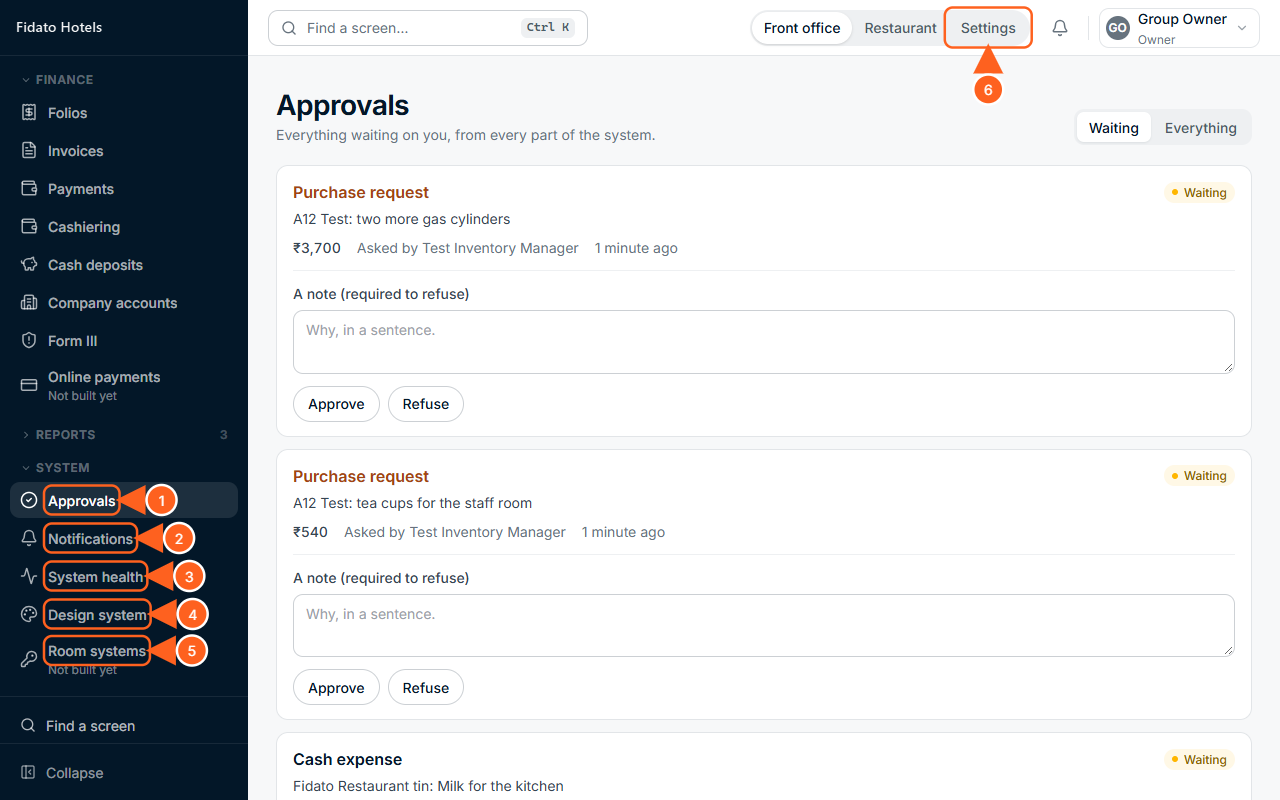
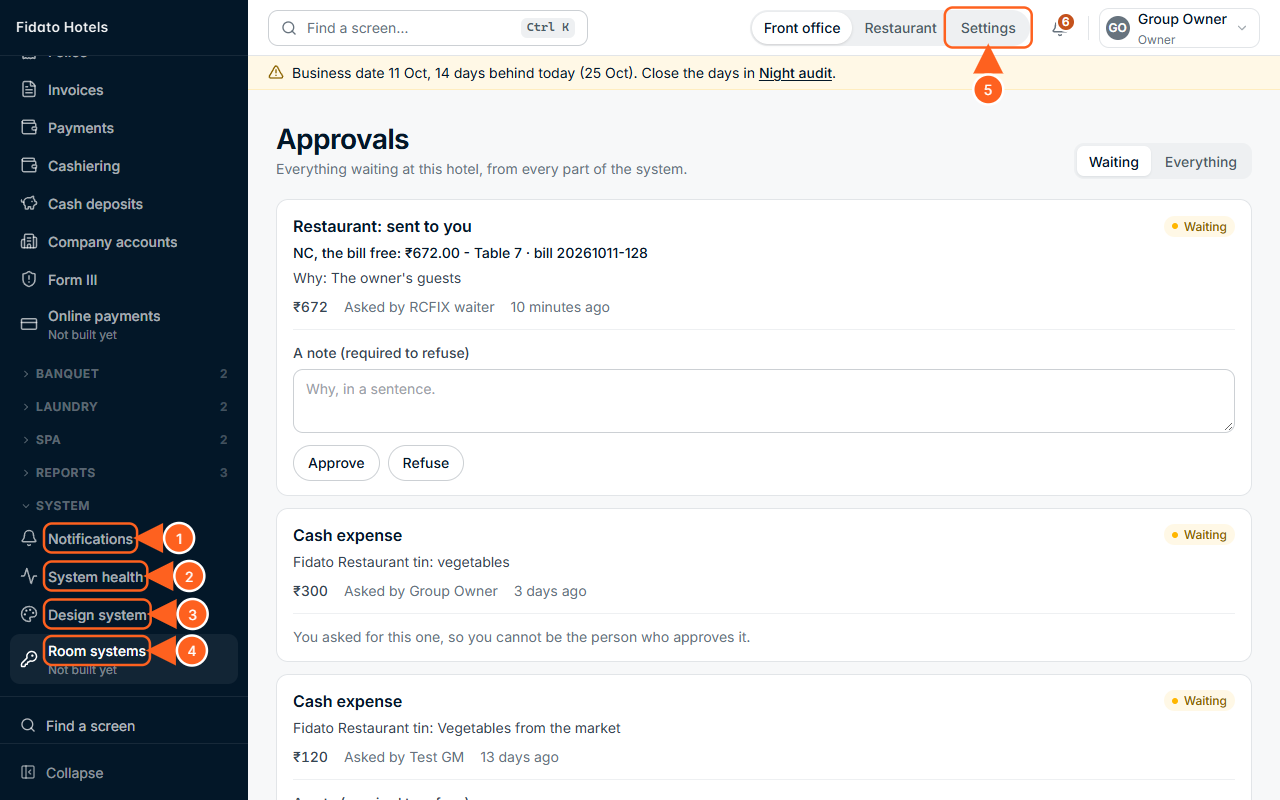
Manual for release 12.1: requests sent to the GM, a paid bill's payment mode, the printing card, Approvals at the top (D27-363)
A1.10: Approvals above the Front desk section, after the Dashboard. A8.7:
"Sent to the GM" (a waiter's strike, discount, NC or void, approving does it,
the answer on the bill), "Changing how a paid bill was paid" (Figure A8-42),
the void and NC buttons for everyone else, watch-outs, D27-363. A8.10:
"Printing on this computer: the shortest slip, and a test" (Figure A8-41).
A12: Approvals at the top with the bell's count, the restaurant's requests in
the table and on the screen (Figure A12-16), A12-01 retaken with the System
section unfolded (Approvals left it). Built. Pictures checked one by one.

diff --git a/docs/manual/manual.html b/docs/manual/manual.html
@@ -236,7 +236,7 @@ figure.shot.phone img { max-width: 72mm; }
   <div class="foot">
     The screens in this book are from the test hotel, 5 Elements Akkalkot. Every guest in it is made up.<br>
     Decision numbers such as D27-249 are the owner's decisions; the list is kept in <code style="background:none;color:inherit">docs/briefs/decisions-*.md</code>.<br>
-    352 pictures, 44 still to be taken. Built from the chapters in docs/manual/chapters.
+    355 pictures, 44 still to be taken. Built from the chapters in docs/manual/chapters.
   </div>
 </section>
 
@@ -1312,6 +1312,7 @@ figure.shot.phone img { max-width: 72mm; }
 
   <!-- A1.10 -->
   <h2 id="a1-10"><span class="n">A1.10</span>The Front desk part of the menu</h2>
+  <p>Above it, after the <span class="ui">Dashboard</span>, the owner, an Admin, the GM, the hotel manager and the Inventory Manager see <span class="ui">Approvals</span>: everything waiting for their yes, from every part of the system, with the bell counting it (A12.3).</p>
   <p>The <span class="ui">Front desk</span> section of the menu holds nine screens. Where each one is described:</p>
   <table>
     <thead><tr><th style="width:22%">Screen</th><th>What it is</th><th style="width:14%">Section</th></tr></thead>
@@ -5107,7 +5108,7 @@ figure.shot.phone img { max-width: 72mm; }
   </div>
 
   <h3>Voiding a paid bill</h3>
-  <p>A bill paid by mistake (the wrong table, paid twice) can be voided by the owner, an Admin or the GM, on the day it was paid and before <span class="ui">Close restaurant day</span>. Nobody else sees the button.</p>
+  <p>A bill paid by mistake (the wrong table, paid twice) can be voided by the owner, an Admin or the GM, on the day it was paid and before <span class="ui">Close restaurant day</span>. Anyone else sees <span class="ui">Ask the GM to void this bill</span> and sends it (below).</p>
   <ol class="steps">
     <li>On the Till, tap the bill under <span class="ui">Settled today</span>.</li>
     <li>Tap <span class="ui">Void this paid bill</span> and type why.</li>
@@ -5117,7 +5118,7 @@ figure.shot.phone img { max-width: 72mm; }
   <p>The bill keeps its number and reads <b>VOID</b>, with the reason, who and when; <span class="ui">Print the bill</span> prints it headed <b>Bill · VOID</b>. The kitchen's KOTs stay as they were: the food was made. The day's sales, the reports and the Day book leave a voided bill out, and its alcohol's VAT bill is cancelled with it. <span class="ui">Close restaurant day</span> and the night audit list it under <span class="ui">Paid bills voided</span>. Its cash comes out of the restaurant's tin, so the tin's Expected leaves it out (A8.9); nobody's front-desk drawer is touched.</p>
 
   <h3>Giving a bill free: No charge (NC)</h3>
-  <p>A bill the hotel gives free - the owner's guests, a staff meal - is closed as NC by the owner, an Admin or the GM. Their name on it is the approval. Nobody else sees the button.</p>
+  <p>A bill the hotel gives free - the owner's guests, a staff meal - is closed as NC by the owner, an Admin or the GM. Their name on it is the approval. Anyone else sees <span class="ui">Ask the GM for NC</span> and sends it (below).</p>
   <ol class="steps">
     <li>On the Till (or the Terminal), open the bill. It must still be open.</li>
     <li>Tap <span class="ui">No charge (NC)</span> and type why.</li>
@@ -5144,6 +5145,31 @@ figure.shot.phone img { max-width: 72mm; }
     <ol class="callouts"><li>NC · No charge at its head</li><li>Who approved it, and when</li></ol>
   </figure>
 
+  <h3>Sent to the GM: what a waiter or cashier may not do</h3>
+  <p>Four things are the owner's, an Admin's or the GM's: taking off a dish the kitchen already has, a discount, giving a bill free (NC), and voiding a paid bill. A waiter or a cashier does not wait for the GM to come to their screen: they <b>send it to the GM</b>, with a reason, and carry on.</p>
+  <ol class="steps">
+    <li>On the Till (or the Terminal), tap what you need: the dish's <span class="ui">X</span>, <span class="ui">Ask for a discount</span>, <span class="ui">Ask the GM for NC</span>, or, on a paid bill, <span class="ui">Ask the GM to void this bill</span>.</li>
+    <li>Type why. A discount: the percentage or amount, and why. A void paid by card or UPI: refund it on the card machine or the UPI app first, and type the refund's reference.</li>
+    <li>Tap <span class="ui">Send to the GM</span>. The bill says <span class="msg">“Sent to the GM, waiting: Strike 2 x Paneer Tikka (KOT 51) - Table 4 · bill …”</span>.</li>
+  </ol>
+  <p>The GM's bell counts it and <span class="ui">Approvals</span>, at the top of their menu, shows it (A12.3). When they <span class="ui">Approve</span>, it is done at once, as if they had pressed the button themselves: the dish comes off, the discount goes on, the bill is NC or void. The waiter's bill then says <span class="msg">“Approved by …”</span>. When they <span class="ui">Refuse</span>, with a reason, it says <span class="msg">“Not approved by … (the reason)”</span> and nothing changes.</p>
+
+  <h3>Changing how a paid bill was paid</h3>
+  <p>A bill paid by card but keyed as cash, or the other way round, is put right by the owner, an Admin or the GM, before the night audit closes its day. The amounts stay the same; only cash, card and UPI change into one another.</p>
+  <ol class="steps">
+    <li>On the Till, tap the bill under <span class="ui">Settled today</span>, then <span class="ui">Change how it was paid</span>.</li>
+    <li>For each part of the payment (a split bill has more than one), pick <span class="ui">Cash</span>, <span class="ui">Card</span> or <span class="ui">UPI</span>.</li>
+    <li>Type why, and tap <span class="ui">Change it</span>.</li>
+  </ol>
+
+  <figure class="shot" id="fig-A8-42">
+    <img src="img/A8-42.png" alt="The Till: Change how bill 20261011-127 was paid, the payment of ₹336.00 set to Card, the reason box and Change it">
+    <figcaption><b>Figure A8-42.</b> Changing how a paid bill was paid.</figcaption>
+    <ol class="callouts"><li>Each part of the payment: cash, card or UPI</li><li>Why</li><li>Change it</li></ol>
+  </figure>
+
+  <p>The bill then reads, under <span class="msg">“Paid by card”</span>, <span class="msg">“Payment mode changed: UPI to Card, ₹336.00, by … at 18:50 - the reason.”</span> <span class="ui">Close restaurant day</span> lists it under <span class="ui">Payment mode changed</span>, marked <span class="msg">“after the drawer was counted”</span> where it was.</p>
+
   <div class="box watch">
     <h4>Watch out</h4>
     <ul>
@@ -5157,12 +5183,14 @@ figure.shot.phone img { max-width: 72mm; }
       <li><b>A bill charged to a room is never voided here</b>: <span class="msg">“This bill went to room 201 - reverse it on the guest's bill.”</span> A bill on a banquet function is reversed on the function's bill.</li>
       <li><b>The same day only</b>: a void on a later day, or once the day is closed, is refused: <span class="msg">“The restaurant's day is closed and its drawer counted. A bill of a closed day cannot be voided.”</span></li>
       <li><b>NC is for an open bill</b>, and cannot be undone. A paid bill is voided instead; a bill on a banquet function is paid on the function's bill and is never NC. An NC bill always says why: <span class="msg">“Say why this bill is no charge. The reason prints on the bill.”</span></li>
+      <li><b>Sent to the GM, asked again when they approve</b>: if the dish was struck meanwhile, or the bill paid, the GM is told why and it stays waiting: <span class="msg">“That line is already struck, or is not here.”</span> The same thing twice is refused: <span class="msg">“This is already with the GM.”</span> Nobody approves their own.</li>
+      <li><b>A payment mode</b> changes only on a paid bill of the day the night audit has not closed, and never to or from a room or a function, which are changed on the guest's or the function's bill. Cash of ₹2,00,000 or more on one bill is refused; more than ₹1,00,000 in cash needs the PAN the bill has: void it and settle it again with the PAN.</li>
     </ul>
   </div>
 
   <div class="box why">
     <h4>Why it works this way</h4>
-    <p>A manager and a reason for food the kitchen has: <span class="d">D27-119</span>. Charge to room asks first, naming the guest: <span class="d">D27-117</span>; two open bills in a room, one button each: <span class="d">D27-162</span>. The Till sends to the kitchen like the Terminal: <span class="d">D27-166</span>. Close unpaid frees its table with Clear: <span class="d">D27-288</span>. Orders on a banquet function: <span class="d">D17-21</span>. Voiding a paid bill: <span class="d">D27-324</span>; its cash out of the tin: <span class="d">D27-327</span>. No charge (NC), the GM's, owner's or Admin's approval with a reason, no prices on the paper and no value anywhere: <span class="d">D27-351</span>.</p>
+    <p>A manager and a reason for food the kitchen has: <span class="d">D27-119</span>. Charge to room asks first, naming the guest: <span class="d">D27-117</span>; two open bills in a room, one button each: <span class="d">D27-162</span>. The Till sends to the kitchen like the Terminal: <span class="d">D27-166</span>. Close unpaid frees its table with Clear: <span class="d">D27-288</span>. Orders on a banquet function: <span class="d">D17-21</span>. Voiding a paid bill: <span class="d">D27-324</span>; its cash out of the tin: <span class="d">D27-327</span>. No charge (NC), the GM's, owner's or Admin's approval with a reason, no prices on the paper and no value anywhere: <span class="d">D27-351</span>. A waiter or cashier sends the GM a strike of a sent dish, a discount, an NC or a void, approving does it; a paid bill's cash, card or UPI changed before the night audit by the GM, the owner or an Admin, with a reason: <span class="d">D27-363</span>.</p>
   </div>
 
   <!-- A8.8 -->
@@ -5323,6 +5351,20 @@ figure.shot.phone img { max-width: 72mm; }
     <li><b>The other way, with Chrome:</b> <span class="ui">download the setup file</span> (<code>KOT-station-setup-&lt;code&gt;.cmd</code>). It lists the printers (type the receipt printer's number), makes it the default printer, puts a <b>Fidato Printer</b> shortcut that opens Chrome on the desktop and in Startup, stops the computer sleeping, and opens this section. Chrome prints without asking but shows its print screen for a moment.</li>
   </ul>
   <p>By hand instead, step by step: <code>src/modules/pos/KOT-STATION-SETUP.md</code>. If slips come out too wide, set the printer's paper to 80 mm once in its Printing preferences.</p>
+
+  <h3>Printing on this computer: the shortest slip, and a test</h3>
+  <p>On a computer that prints, the KOT section shows <span class="ui">Printing on</span> and its name. Each slip is as long as it needs, and never shorter than its <span class="ui">Shortest slip</span>: 160 mm unless you change it. A receipt printer turns a slip it takes for a landscape page, so a short KOT can come out sideways while the longer bills come out upright.</p>
+  <ol class="steps">
+    <li>On the printing computer, open <span class="ui">Restaurant setup</span>, the KOT section.</li>
+    <li>Tap <span class="ui">Print a test KOT</span>, and <span class="ui">Print a test bill</span>. They print exactly as the real ones do, marked as tests.</li>
+    <li>If the test KOT comes out sideways, type a longer <span class="ui">Shortest slip, mm</span> (180, 200), tap <span class="ui">Save</span>, and print the test KOT again. Blank puts it back to 160 mm.</li>
+  </ol>
+
+  <figure class="shot" id="fig-A8-41">
+    <img src="img/A8-41.png" alt="The KOT section on Bar PC: Printing on Bar PC, the Shortest slip, mm box showing 160, Save, Print a test KOT and Print a test bill">
+    <figcaption><b>Figure A8-41.</b> Printing on this computer.</figcaption>
+    <ol class="callouts"><li>This computer's printing</li><li>The shortest slip, in mm</li><li>A test KOT</li><li>A test bill</li></ol>
+  </figure>
   <ul>
     <li><b>One computer per kind.</b> Ticking a kind on another computer moves it there; the old one stops printing it by itself. A reprint still waiting for the old one moves with the kind and prints on the new one, marked REPRINT (<span class="d">D27-330</span>); a new KOT sent before the move does not print there.</li>
     <li><b>One computer can print everything:</b> tick every kind and the bills on it. Each slip still says what it is.</li>
@@ -7470,13 +7512,12 @@ figure.shot.phone img { max-width: 72mm; }
 
   <!-- A12.1 -->
   <h2 id="a12-1"><span class="n">A12.1</span>The System part of the menu</h2>
-  <p><span class="ui">System</span> is the last section of the Front office menu. You see the screens your role uses.</p>
+  <p><span class="ui">System</span> is the last section of the Front office menu. You see the screens your role uses. <span class="ui">Approvals</span> is not here: it is at the top of the menu, after the Dashboard (A12.3).</p>
 
   <figure class="shot" id="fig-A12-01">
-    <img src="img/A12-01.png" alt="The menu's System section as the owner sees it: Approvals, Notifications, System health, Design system, Room systems, and Settings at the top">
+    <img src="img/A12-01.png" alt="The menu's System section as the owner sees it, opened: Notifications, System health, Design system, Room systems, and Settings at the top">
     <figcaption><b>Figure A12-01.</b> The System part of the menu, as the owner sees it.</figcaption>
     <ol class="callouts">
-      <li>Approvals: everything waiting at this hotel (A12.3)</li>
       <li>Notifications: what needs attention, on a page of its own (A12.9)</li>
       <li>System health: what the server is doing</li>
       <li>Design system: on the test computer only</li>
@@ -7513,6 +7554,7 @@ figure.shot.phone img { max-width: 72mm; }
       <tr><td>Cash expense</td><td>Money is paid out of a drawer: the front desk's (<span class="ui">Cashiering</span>) or a restaurant's tin (<span class="ui">Close restaurant day</span>). See A12.7.</td><td>The general manager or the owner. Never an administrator.</td></tr>
       <tr><td>Equipment leaving the store</td><td>Equipment goes out of a store to a room, the kitchen or the restaurant.</td><td>The Inventory Manager; when they are away, the owner, an administrator or the GM.</td></tr>
       <tr><td>Equipment being retired</td><td>A tagged item is retired by somebody who may not approve it, such as the Hotel Manager.</td><td>The same as above.</td></tr>
+      <tr><td>Restaurant: sent to you</td><td>A waiter or cashier sends what only the GM may do: take off a dish the kitchen has, a discount, an NC bill, or void a paid bill (A8.7). Approving does it.</td><td>The general manager, the owner or an administrator.</td></tr>
     </tbody>
   </table>
   <ul>
@@ -7524,12 +7566,20 @@ figure.shot.phone img { max-width: 72mm; }
 
   <div class="box why">
     <h4>Why it works this way</h4>
-    <p>The GM approves every purchase, with no amount above which the owner must: <span class="d">D18-4</span>, confirming <span class="d">D17-35</span>. Who may ask is a setting per hotel, changed without a new release: <span class="d">D18-2</span>. Every cash expense needs a yes from the GM or the owner, never an administrator, never one's own: <span class="d">D27-239</span>, <span class="d">D27-242</span>. Equipment waits for the Inventory Manager, with the owner, an administrator or the GM instead: the owner, 16 September. Who decides is kept as a rule for each hotel, and a request keeps the rule it was raised under: a rule changed later never moves a request already waiting.</p>
+    <p>The GM approves every purchase, with no amount above which the owner must: <span class="d">D18-4</span>, confirming <span class="d">D17-35</span>. Who may ask is a setting per hotel, changed without a new release: <span class="d">D18-2</span>. Every cash expense needs a yes from the GM or the owner, never an administrator, never one's own: <span class="d">D27-239</span>, <span class="d">D27-242</span>. Equipment waits for the Inventory Manager, with the owner, an administrator or the GM instead: the owner, 16 September. A waiter's or cashier's strike, discount, NC or void sent to the GM, the owner or an administrator, approving does it, with the bell and Approvals at the top of the menu: <span class="d">D27-363</span>. Who decides is kept as a rule for each hotel, and a request keeps the rule it was raised under: a rule changed later never moves a request already waiting.</p>
   </div>
 
   <!-- A12.3 -->
   <h2 id="a12-3"><span class="n">A12.3</span>Approving or refusing</h2>
+  <p><span class="ui">Approvals</span> is at the top of the menu, after the Dashboard, and the bell counts what waits for you: <span class="msg">“2 requests waiting for your approval”</span>, with a link here. The list refreshes by itself every few seconds.</p>
   <p>Open <span class="ui">Approvals</span>. The line under the title says <span class="msg">“Everything waiting at this hotel, from every part of the system.”</span> <span class="ui">Waiting</span> lists every request still waiting, newest first. Each card says what kind of request it is, what it is for in the asker's own words, the amount, who asked and when.</p>
+  <p>A request from the restaurant says exactly what it is in a line of its own, such as <span class="msg">“NC, the bill free: ₹672.00 - Table 7 · bill 20261011-128”</span>, and the waiter's reason under it. <span class="ui">Approve</span> does it at once; the waiter's bill says so.</p>
+
+  <figure class="shot" id="fig-A12-16">
+    <img src="img/A12-16.png" alt="Approvals at the top of the GM's menu, and a card Restaurant: sent to you, NC, the bill free: ₹672.00 - Table 7, Why: The owner's guests, asked by a waiter">
+    <figcaption><b>Figure A12-16.</b> A request from the restaurant.</figcaption>
+    <ol class="callouts"><li>Approvals, at the top of the menu</li><li>Sent by the restaurant</li><li>What exactly</li><li>The waiter's reason</li></ol>
+  </figure>
 
   <figure class="shot" id="fig-A12-02">
     <img src="img/A12-02.png" alt="Approvals as the general manager: Waiting chosen, a purchase request for two gas cylinders, its amount, who asked, and the note box">
@@ -7568,6 +7618,7 @@ figure.shot.phone img { max-width: 72mm; }
       <li><b>Refuse with no note</b> is not accepted: <span class="msg">“Say why it is refused, so the person who asked knows what to do next.”</span></li>
       <li><b>Approve and Refuse cannot be undone.</b> Read the card before you tap.</li>
       <li>A purchase request can also be decided on its own page, which has a third button, <span class="ui">Send back</span>, to ask for something to be cleared up. Approvals shows such a request as <span class="ui">Asked for more</span>.</li>
+      <li>A request from the restaurant that can no longer be done (the dish struck meanwhile, the bill paid) is not approved: Approvals says why, and it stays waiting until it is refused.</li>
       <li><b>The bell does not tell you a request is waiting.</b> Open Approvals to see what waits on you.</li>
     </ul>
   </div>

diff --git a/docs/manual/chapters/a8.html b/docs/manual/chapters/a8.html
@@ -444,7 +444,7 @@
   </div>
 
   <h3>Voiding a paid bill</h3>
-  <p>A bill paid by mistake (the wrong table, paid twice) can be voided by the owner, an Admin or the GM, on the day it was paid and before <span class="ui">Close restaurant day</span>. Nobody else sees the button.</p>
+  <p>A bill paid by mistake (the wrong table, paid twice) can be voided by the owner, an Admin or the GM, on the day it was paid and before <span class="ui">Close restaurant day</span>. Anyone else sees <span class="ui">Ask the GM to void this bill</span> and sends it (below).</p>
   <ol class="steps">
     <li>On the Till, tap the bill under <span class="ui">Settled today</span>.</li>
     <li>Tap <span class="ui">Void this paid bill</span> and type why.</li>
@@ -454,7 +454,7 @@
   <p>The bill keeps its number and reads <b>VOID</b>, with the reason, who and when; <span class="ui">Print the bill</span> prints it headed <b>Bill · VOID</b>. The kitchen's KOTs stay as they were: the food was made. The day's sales, the reports and the Day book leave a voided bill out, and its alcohol's VAT bill is cancelled with it. <span class="ui">Close restaurant day</span> and the night audit list it under <span class="ui">Paid bills voided</span>. Its cash comes out of the restaurant's tin, so the tin's Expected leaves it out (A8.9); nobody's front-desk drawer is touched.</p>
 
   <h3>Giving a bill free: No charge (NC)</h3>
-  <p>A bill the hotel gives free - the owner's guests, a staff meal - is closed as NC by the owner, an Admin or the GM. Their name on it is the approval. Nobody else sees the button.</p>
+  <p>A bill the hotel gives free - the owner's guests, a staff meal - is closed as NC by the owner, an Admin or the GM. Their name on it is the approval. Anyone else sees <span class="ui">Ask the GM for NC</span> and sends it (below).</p>
   <ol class="steps">
     <li>On the Till (or the Terminal), open the bill. It must still be open.</li>
     <li>Tap <span class="ui">No charge (NC)</span> and type why.</li>
@@ -481,6 +481,31 @@
     <ol class="callouts"><li>NC · No charge at its head</li><li>Who approved it, and when</li></ol>
   </figure>
 
+  <h3>Sent to the GM: what a waiter or cashier may not do</h3>
+  <p>Four things are the owner's, an Admin's or the GM's: taking off a dish the kitchen already has, a discount, giving a bill free (NC), and voiding a paid bill. A waiter or a cashier does not wait for the GM to come to their screen: they <b>send it to the GM</b>, with a reason, and carry on.</p>
+  <ol class="steps">
+    <li>On the Till (or the Terminal), tap what you need: the dish's <span class="ui">X</span>, <span class="ui">Ask for a discount</span>, <span class="ui">Ask the GM for NC</span>, or, on a paid bill, <span class="ui">Ask the GM to void this bill</span>.</li>
+    <li>Type why. A discount: the percentage or amount, and why. A void paid by card or UPI: refund it on the card machine or the UPI app first, and type the refund's reference.</li>
+    <li>Tap <span class="ui">Send to the GM</span>. The bill says <span class="msg">“Sent to the GM, waiting: Strike 2 x Paneer Tikka (KOT 51) - Table 4 · bill …”</span>.</li>
+  </ol>
+  <p>The GM's bell counts it and <span class="ui">Approvals</span>, at the top of their menu, shows it (A12.3). When they <span class="ui">Approve</span>, it is done at once, as if they had pressed the button themselves: the dish comes off, the discount goes on, the bill is NC or void. The waiter's bill then says <span class="msg">“Approved by …”</span>. When they <span class="ui">Refuse</span>, with a reason, it says <span class="msg">“Not approved by … (the reason)”</span> and nothing changes.</p>
+
+  <h3>Changing how a paid bill was paid</h3>
+  <p>A bill paid by card but keyed as cash, or the other way round, is put right by the owner, an Admin or the GM, before the night audit closes its day. The amounts stay the same; only cash, card and UPI change into one another.</p>
+  <ol class="steps">
+    <li>On the Till, tap the bill under <span class="ui">Settled today</span>, then <span class="ui">Change how it was paid</span>.</li>
+    <li>For each part of the payment (a split bill has more than one), pick <span class="ui">Cash</span>, <span class="ui">Card</span> or <span class="ui">UPI</span>.</li>
+    <li>Type why, and tap <span class="ui">Change it</span>.</li>
+  </ol>
+
+  <figure class="shot" id="fig-A8-42">
+    <img src="img/A8-42.png" alt="The Till: Change how bill 20261011-127 was paid, the payment of ₹336.00 set to Card, the reason box and Change it">
+    <figcaption><b>Figure A8-42.</b> Changing how a paid bill was paid.</figcaption>
+    <ol class="callouts"><li>Each part of the payment: cash, card or UPI</li><li>Why</li><li>Change it</li></ol>
+  </figure>
+
+  <p>The bill then reads, under <span class="msg">“Paid by card”</span>, <span class="msg">“Payment mode changed: UPI to Card, ₹336.00, by … at 18:50 - the reason.”</span> <span class="ui">Close restaurant day</span> lists it under <span class="ui">Payment mode changed</span>, marked <span class="msg">“after the drawer was counted”</span> where it was.</p>
+
   <div class="box watch">
     <h4>Watch out</h4>
     <ul>
@@ -494,12 +519,14 @@
       <li><b>A bill charged to a room is never voided here</b>: <span class="msg">“This bill went to room 201 - reverse it on the guest's bill.”</span> A bill on a banquet function is reversed on the function's bill.</li>
       <li><b>The same day only</b>: a void on a later day, or once the day is closed, is refused: <span class="msg">“The restaurant's day is closed and its drawer counted. A bill of a closed day cannot be voided.”</span></li>
       <li><b>NC is for an open bill</b>, and cannot be undone. A paid bill is voided instead; a bill on a banquet function is paid on the function's bill and is never NC. An NC bill always says why: <span class="msg">“Say why this bill is no charge. The reason prints on the bill.”</span></li>
+      <li><b>Sent to the GM, asked again when they approve</b>: if the dish was struck meanwhile, or the bill paid, the GM is told why and it stays waiting: <span class="msg">“That line is already struck, or is not here.”</span> The same thing twice is refused: <span class="msg">“This is already with the GM.”</span> Nobody approves their own.</li>
+      <li><b>A payment mode</b> changes only on a paid bill of the day the night audit has not closed, and never to or from a room or a function, which are changed on the guest's or the function's bill. Cash of ₹2,00,000 or more on one bill is refused; more than ₹1,00,000 in cash needs the PAN the bill has: void it and settle it again with the PAN.</li>
     </ul>
   </div>
 
   <div class="box why">
     <h4>Why it works this way</h4>
-    <p>A manager and a reason for food the kitchen has: <span class="d">D27-119</span>. Charge to room asks first, naming the guest: <span class="d">D27-117</span>; two open bills in a room, one button each: <span class="d">D27-162</span>. The Till sends to the kitchen like the Terminal: <span class="d">D27-166</span>. Close unpaid frees its table with Clear: <span class="d">D27-288</span>. Orders on a banquet function: <span class="d">D17-21</span>. Voiding a paid bill: <span class="d">D27-324</span>; its cash out of the tin: <span class="d">D27-327</span>. No charge (NC), the GM's, owner's or Admin's approval with a reason, no prices on the paper and no value anywhere: <span class="d">D27-351</span>.</p>
+    <p>A manager and a reason for food the kitchen has: <span class="d">D27-119</span>. Charge to room asks first, naming the guest: <span class="d">D27-117</span>; two open bills in a room, one button each: <span class="d">D27-162</span>. The Till sends to the kitchen like the Terminal: <span class="d">D27-166</span>. Close unpaid frees its table with Clear: <span class="d">D27-288</span>. Orders on a banquet function: <span class="d">D17-21</span>. Voiding a paid bill: <span class="d">D27-324</span>; its cash out of the tin: <span class="d">D27-327</span>. No charge (NC), the GM's, owner's or Admin's approval with a reason, no prices on the paper and no value anywhere: <span class="d">D27-351</span>. A waiter or cashier sends the GM a strike of a sent dish, a discount, an NC or a void, approving does it; a paid bill's cash, card or UPI changed before the night audit by the GM, the owner or an Admin, with a reason: <span class="d">D27-363</span>.</p>
   </div>
 
   <!-- A8.8 -->
@@ -660,6 +687,20 @@
     <li><b>The other way, with Chrome:</b> <span class="ui">download the setup file</span> (<code>KOT-station-setup-&lt;code&gt;.cmd</code>). It lists the printers (type the receipt printer's number), makes it the default printer, puts a <b>Fidato Printer</b> shortcut that opens Chrome on the desktop and in Startup, stops the computer sleeping, and opens this section. Chrome prints without asking but shows its print screen for a moment.</li>
   </ul>
   <p>By hand instead, step by step: <code>src/modules/pos/KOT-STATION-SETUP.md</code>. If slips come out too wide, set the printer's paper to 80 mm once in its Printing preferences.</p>
+
+  <h3>Printing on this computer: the shortest slip, and a test</h3>
+  <p>On a computer that prints, the KOT section shows <span class="ui">Printing on</span> and its name. Each slip is as long as it needs, and never shorter than its <span class="ui">Shortest slip</span>: 160 mm unless you change it. A receipt printer turns a slip it takes for a landscape page, so a short KOT can come out sideways while the longer bills come out upright.</p>
+  <ol class="steps">
+    <li>On the printing computer, open <span class="ui">Restaurant setup</span>, the KOT section.</li>
+    <li>Tap <span class="ui">Print a test KOT</span>, and <span class="ui">Print a test bill</span>. They print exactly as the real ones do, marked as tests.</li>
+    <li>If the test KOT comes out sideways, type a longer <span class="ui">Shortest slip, mm</span> (180, 200), tap <span class="ui">Save</span>, and print the test KOT again. Blank puts it back to 160 mm.</li>
+  </ol>
+
+  <figure class="shot" id="fig-A8-41">
+    <img src="img/A8-41.png" alt="The KOT section on Bar PC: Printing on Bar PC, the Shortest slip, mm box showing 160, Save, Print a test KOT and Print a test bill">
+    <figcaption><b>Figure A8-41.</b> Printing on this computer.</figcaption>
+    <ol class="callouts"><li>This computer's printing</li><li>The shortest slip, in mm</li><li>A test KOT</li><li>A test bill</li></ol>
+  </figure>
   <ul>
     <li><b>One computer per kind.</b> Ticking a kind on another computer moves it there; the old one stops printing it by itself. A reprint still waiting for the old one moves with the kind and prints on the new one, marked REPRINT (<span class="d">D27-330</span>); a new KOT sent before the move does not print there.</li>
     <li><b>One computer can print everything:</b> tick every kind and the bills on it. Each slip still says what it is.</li>

diff --git a/docs/manual/chapters/a12.html b/docs/manual/chapters/a12.html
@@ -8,13 +8,12 @@
 
   <!-- A12.1 -->
   <h2 id="a12-1"><span class="n">A12.1</span>The System part of the menu</h2>
-  <p><span class="ui">System</span> is the last section of the Front office menu. You see the screens your role uses.</p>
+  <p><span class="ui">System</span> is the last section of the Front office menu. You see the screens your role uses. <span class="ui">Approvals</span> is not here: it is at the top of the menu, after the Dashboard (A12.3).</p>
 
   <figure class="shot" id="fig-A12-01">
-    <img src="img/A12-01.png" alt="The menu's System section as the owner sees it: Approvals, Notifications, System health, Design system, Room systems, and Settings at the top">
+    <img src="img/A12-01.png" alt="The menu's System section as the owner sees it, opened: Notifications, System health, Design system, Room systems, and Settings at the top">
     <figcaption><b>Figure A12-01.</b> The System part of the menu, as the owner sees it.</figcaption>
     <ol class="callouts">
-      <li>Approvals: everything waiting at this hotel (A12.3)</li>
       <li>Notifications: what needs attention, on a page of its own (A12.9)</li>
       <li>System health: what the server is doing</li>
       <li>Design system: on the test computer only</li>
@@ -51,6 +50,7 @@
       <tr><td>Cash expense</td><td>Money is paid out of a drawer: the front desk's (<span class="ui">Cashiering</span>) or a restaurant's tin (<span class="ui">Close restaurant day</span>). See A12.7.</td><td>The general manager or the owner. Never an administrator.</td></tr>
       <tr><td>Equipment leaving the store</td><td>Equipment goes out of a store to a room, the kitchen or the restaurant.</td><td>The Inventory Manager; when they are away, the owner, an administrator or the GM.</td></tr>
       <tr><td>Equipment being retired</td><td>A tagged item is retired by somebody who may not approve it, such as the Hotel Manager.</td><td>The same as above.</td></tr>
+      <tr><td>Restaurant: sent to you</td><td>A waiter or cashier sends what only the GM may do: take off a dish the kitchen has, a discount, an NC bill, or void a paid bill (A8.7). Approving does it.</td><td>The general manager, the owner or an administrator.</td></tr>
     </tbody>
   </table>
   <ul>
@@ -62,12 +62,20 @@
 
   <div class="box why">
     <h4>Why it works this way</h4>
-    <p>The GM approves every purchase, with no amount above which the owner must: <span class="d">D18-4</span>, confirming <span class="d">D17-35</span>. Who may ask is a setting per hotel, changed without a new release: <span class="d">D18-2</span>. Every cash expense needs a yes from the GM or the owner, never an administrator, never one's own: <span class="d">D27-239</span>, <span class="d">D27-242</span>. Equipment waits for the Inventory Manager, with the owner, an administrator or the GM instead: the owner, 16 September. Who decides is kept as a rule for each hotel, and a request keeps the rule it was raised under: a rule changed later never moves a request already waiting.</p>
+    <p>The GM approves every purchase, with no amount above which the owner must: <span class="d">D18-4</span>, confirming <span class="d">D17-35</span>. Who may ask is a setting per hotel, changed without a new release: <span class="d">D18-2</span>. Every cash expense needs a yes from the GM or the owner, never an administrator, never one's own: <span class="d">D27-239</span>, <span class="d">D27-242</span>. Equipment waits for the Inventory Manager, with the owner, an administrator or the GM instead: the owner, 16 September. A waiter's or cashier's strike, discount, NC or void sent to the GM, the owner or an administrator, approving does it, with the bell and Approvals at the top of the menu: <span class="d">D27-363</span>. Who decides is kept as a rule for each hotel, and a request keeps the rule it was raised under: a rule changed later never moves a request already waiting.</p>
   </div>
 
   <!-- A12.3 -->
   <h2 id="a12-3"><span class="n">A12.3</span>Approving or refusing</h2>
+  <p><span class="ui">Approvals</span> is at the top of the menu, after the Dashboard, and the bell counts what waits for you: <span class="msg">“2 requests waiting for your approval”</span>, with a link here. The list refreshes by itself every few seconds.</p>
   <p>Open <span class="ui">Approvals</span>. The line under the title says <span class="msg">“Everything waiting at this hotel, from every part of the system.”</span> <span class="ui">Waiting</span> lists every request still waiting, newest first. Each card says what kind of request it is, what it is for in the asker's own words, the amount, who asked and when.</p>
+  <p>A request from the restaurant says exactly what it is in a line of its own, such as <span class="msg">“NC, the bill free: ₹672.00 - Table 7 · bill 20261011-128”</span>, and the waiter's reason under it. <span class="ui">Approve</span> does it at once; the waiter's bill says so.</p>
+
+  <figure class="shot" id="fig-A12-16">
+    <img src="img/A12-16.png" alt="Approvals at the top of the GM's menu, and a card Restaurant: sent to you, NC, the bill free: ₹672.00 - Table 7, Why: The owner's guests, asked by a waiter">
+    <figcaption><b>Figure A12-16.</b> A request from the restaurant.</figcaption>
+    <ol class="callouts"><li>Approvals, at the top of the menu</li><li>Sent by the restaurant</li><li>What exactly</li><li>The waiter's reason</li></ol>
+  </figure>
 
   <figure class="shot" id="fig-A12-02">
     <img src="img/A12-02.png" alt="Approvals as the general manager: Waiting chosen, a purchase request for two gas cylinders, its amount, who asked, and the note box">
@@ -106,6 +114,7 @@
       <li><b>Refuse with no note</b> is not accepted: <span class="msg">“Say why it is refused, so the person who asked knows what to do next.”</span></li>
       <li><b>Approve and Refuse cannot be undone.</b> Read the card before you tap.</li>
       <li>A purchase request can also be decided on its own page, which has a third button, <span class="ui">Send back</span>, to ask for something to be cleared up. Approvals shows such a request as <span class="ui">Asked for more</span>.</li>
+      <li>A request from the restaurant that can no longer be done (the dish struck meanwhile, the bill paid) is not approved: Approvals says why, and it stays waiting until it is refused.</li>
       <li><b>The bell does not tell you a request is waiting.</b> Open Approvals to see what waits on you.</li>
     </ul>
   </div>

diff --git a/docs/manual/chapters/a1.html b/docs/manual/chapters/a1.html
@@ -599,6 +599,7 @@
 
   <!-- A1.10 -->
   <h2 id="a1-10"><span class="n">A1.10</span>The Front desk part of the menu</h2>
+  <p>Above it, after the <span class="ui">Dashboard</span>, the owner, an Admin, the GM, the hotel manager and the Inventory Manager see <span class="ui">Approvals</span>: everything waiting for their yes, from every part of the system, with the bell counting it (A12.3).</p>
   <p>The <span class="ui">Front desk</span> section of the menu holds nine screens. Where each one is described:</p>
   <table>
     <thead><tr><th style="width:22%">Screen</th><th>What it is</th><th style="width:14%">Section</th></tr></thead>
